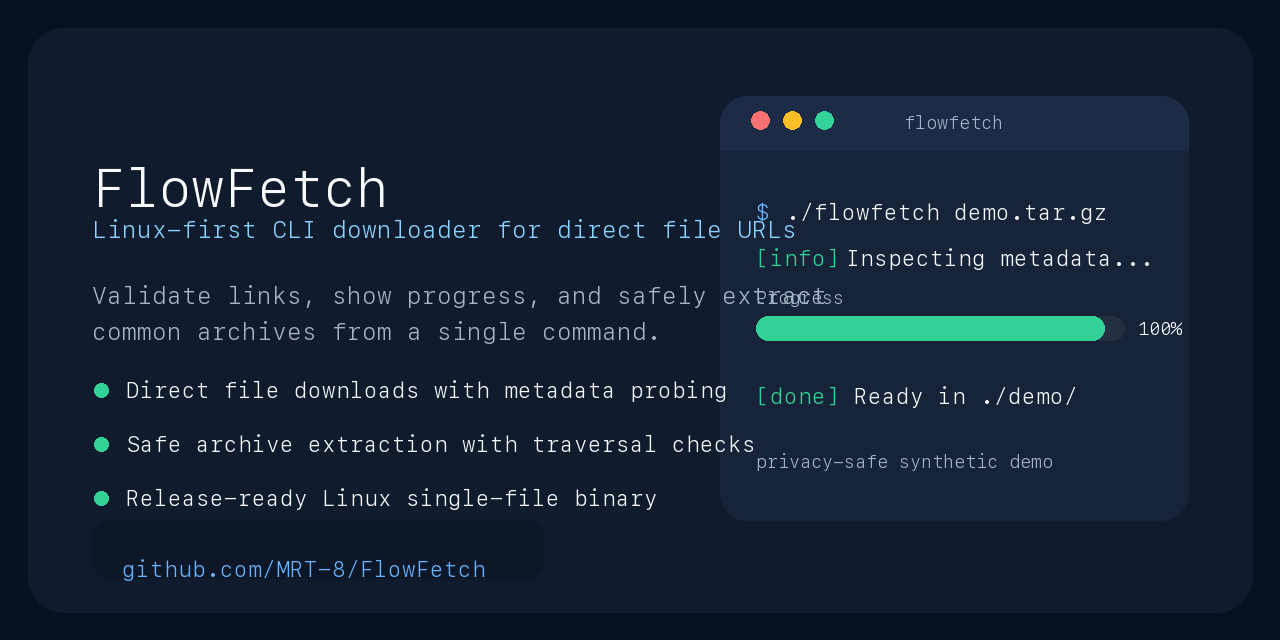
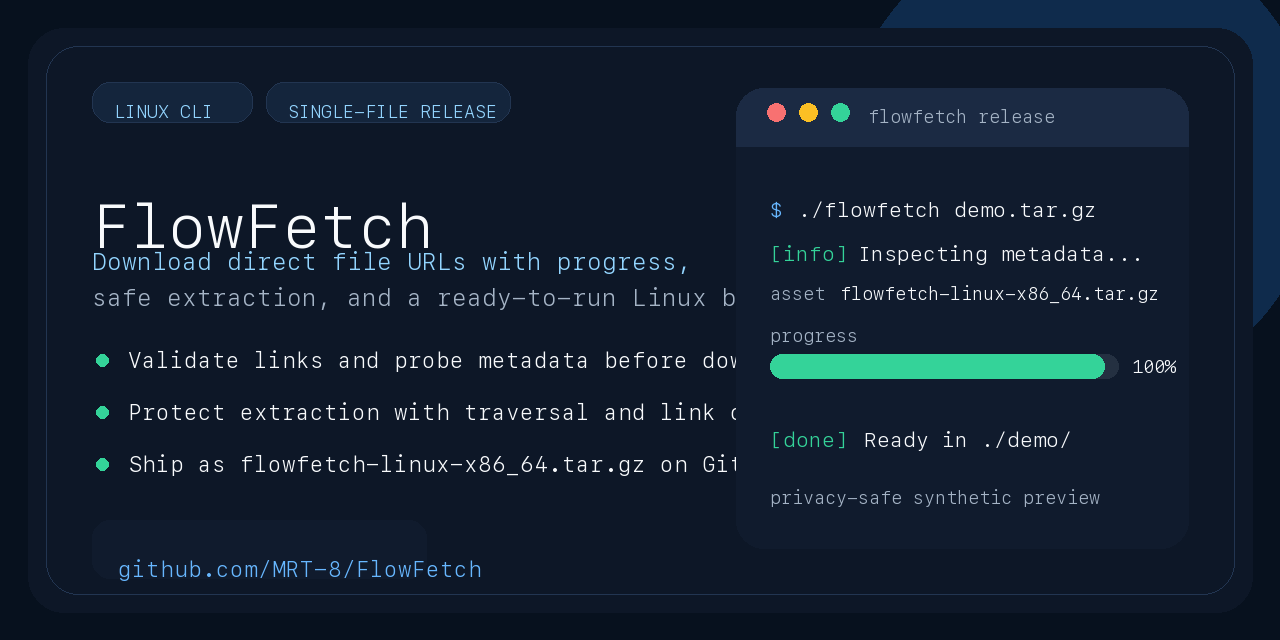
docs: refine social preview artwork

diff --git a/scripts/generate_social_preview.py b/scripts/generate_social_preview.py
@@ -15,14 +15,18 @@ WIDTH = 1280
 HEIGHT = 640
 OUT_PATH = Path("assets/social-preview.png")
 
-BG = "#08111F"
+BG = "#07111E"
+SURFACE = "#0D1727"
 PANEL = "#101B2D"
 PANEL_SOFT = "#162338"
+PANEL_LINE = "#223551"
 TEXT = "#F8FAFC"
 MUTED = "#A5B4C6"
-BLUE = "#66B3FF"
-GREEN = "#32D296"
-ACCENT = "#8AD4FF"
+BLUE = "#67B7FF"
+GREEN = "#34D399"
+ACCENT = "#93D5FF"
+PILL = "#14253C"
+GLOW = "#0F2B4C"
 
 
 def load_font(size: int) -> ImageFont.FreeTypeFont | ImageFont.ImageFont:
@@ -39,14 +43,28 @@ def load_font(size: int) -> ImageFont.FreeTypeFont | ImageFont.ImageFont:
     return ImageFont.load_default()
 
 
-FONT_TITLE = load_font(54)
+FONT_KICKER = load_font(20)
+FONT_TITLE = load_font(62)
 FONT_SUBTITLE = load_font(24)
 FONT_BODY = load_font(22)
 FONT_META = load_font(18)
+FONT_TERMINAL = load_font(21)
 
 
-def draw_text(draw: ImageDraw.ImageDraw, xy: tuple[int, int], text: str, fill: str, font, anchor: str | None = None) -> None:
+def draw_text(
+    draw: ImageDraw.ImageDraw,
+    xy: tuple[int, int],
+    text: str,
+    fill: str,
+    font,
+    anchor: str | None = None,
+) -> None:
     draw.text(xy, text, fill=fill, font=font, anchor=anchor)
+
+
+def pill(draw: ImageDraw.ImageDraw, xy: tuple[int, int, int, int], text: str) -> None:
+    draw.rounded_rectangle(xy, radius=18, fill=PILL, outline=PANEL_LINE, width=1)
+    draw_text(draw, (xy[0] + 22, xy[1] + 18), text, ACCENT, FONT_META)
 
 
 def main() -> None:
@@ -55,46 +73,51 @@ def main() -> None:
     image = Image.new("RGB", (WIDTH, HEIGHT), BG)
     draw = ImageDraw.Draw(image)
 
-    draw.rounded_rectangle((28, 28, WIDTH - 28, HEIGHT - 28), radius=36, fill=PANEL)
-    draw.rounded_rectangle((720, 96, 1188, 520), radius=28, fill=PANEL_SOFT)
-    draw.rounded_rectangle((720, 96, 1188, 150), radius=28, fill="#1D2C46")
-    draw.rectangle((720, 122, 1188, 150), fill="#1D2C46")
+    draw.ellipse((840, -80, 1320, 400), fill=GLOW)
+    draw.rounded_rectangle((28, 28, WIDTH - 28, HEIGHT - 28), radius=36, fill=SURFACE)
+    draw.rounded_rectangle((46, 46, WIDTH - 46, HEIGHT - 46), radius=32, outline=PANEL_LINE, width=1)
 
-    for x, color in ((760, "#F87171"), (792, "#FBBF24"), (824, "#34D399")):
-        draw.ellipse((x - 9, 111, x + 9, 129), fill=color)
+    pill(draw, (92, 82, 252, 122), "LINUX CLI")
+    pill(draw, (266, 82, 510, 122), "SINGLE-FILE RELEASE")
 
-    draw_text(draw, (954, 122), "flowfetch", MUTED, FONT_META, anchor="mm")
+    draw_text(draw, (92, 188), "FlowFetch", TEXT, FONT_TITLE)
+    draw_text(draw, (92, 246), "Download direct file URLs with progress,", ACCENT, FONT_SUBTITLE)
+    draw_text(draw, (92, 282), "safe extraction, and a ready-to-run Linux binary.", MUTED, FONT_SUBTITLE)
 
-    draw_text(draw, (92, 154), "FlowFetch", TEXT, FONT_TITLE)
-    draw_text(draw, (92, 214), "Linux-first CLI downloader for direct file URLs", ACCENT, FONT_SUBTITLE)
-    draw_text(draw, (92, 280), "Validate links, show progress, and safely extract", MUTED, FONT_SUBTITLE)
-    draw_text(draw, (92, 316), "common archives from a single command.", MUTED, FONT_SUBTITLE)
-
-    bullets = [
-        "Direct file downloads with metadata probing",
-        "Safe archive extraction with traversal checks",
-        "Release-ready Linux single-file binary",
+    highlights = [
+        "Validate links and probe metadata before download",
+        "Protect extraction with traversal and link checks",
+        "Ship as flowfetch-linux-x86_64.tar.gz on GitHub Releases",
     ]
-    y = 392
-    for bullet in bullets:
-        draw.ellipse((94, y - 9, 108, y + 5), fill=GREEN)
-        draw_text(draw, (126, y - 16), bullet, TEXT, FONT_BODY)
-        y += 54
+    y = 362
+    for line in highlights:
+        draw.ellipse((96, y - 8, 108, y + 4), fill=GREEN)
+        draw_text(draw, (128, y - 16), line, TEXT, FONT_BODY)
+        y += 52
 
-    draw.rounded_rectangle((92, 520, 544, 578), radius=18, fill="#0D1727")
-    draw_text(draw, (122, 555), "github.com/MRT-8/FlowFetch", BLUE, FONT_BODY)
+    draw.rounded_rectangle((92, 520, 426, 578), radius=18, fill=PANEL)
+    draw_text(draw, (118, 555), "github.com/MRT-8/FlowFetch", BLUE, FONT_BODY)
 
-    draw_text(draw, (756, 198), "$", BLUE, FONT_BODY)
-    draw_text(draw, (786, 198), "./flowfetch demo.tar.gz", TEXT, FONT_BODY)
-    draw_text(draw, (756, 244), "[info]", GREEN, FONT_BODY)
-    draw_text(draw, (846, 244), "Inspecting metadata...", TEXT, FONT_BODY)
-    draw_text(draw, (756, 286), "Progress", MUTED, FONT_META)
-    draw.rounded_rectangle((756, 316, 1124, 340), radius=12, fill="#243041")
-    draw.rounded_rectangle((756, 316, 1104, 340), radius=12, fill=GREEN)
-    draw_text(draw, (1138, 328), "100%", TEXT, FONT_META, anchor="lm")
-    draw_text(draw, (756, 382), "[done]", GREEN, FONT_BODY)
-    draw_text(draw, (854, 382), "Ready in ./demo/", TEXT, FONT_BODY)
-    draw_text(draw, (756, 450), "privacy-safe synthetic demo", MUTED, FONT_META)
+    draw.rounded_rectangle((736, 88, 1188, 548), radius=28, fill=PANEL)
+    draw.rounded_rectangle((736, 88, 1188, 146), radius=28, fill="#1B2A43")
+    draw.rectangle((736, 116, 1188, 146), fill="#1B2A43")
+    for x, color in ((776, "#F87171"), (808, "#FBBF24"), (840, "#34D399")):
+        draw.ellipse((x - 9, 103, x + 9, 121), fill=color)
+    draw_text(draw, (962, 116), "flowfetch release", MUTED, FONT_META, anchor="mm")
+
+    draw_text(draw, (770, 196), "$", BLUE, FONT_TERMINAL)
+    draw_text(draw, (798, 196), "./flowfetch demo.tar.gz", TEXT, FONT_TERMINAL)
+    draw_text(draw, (770, 240), "[info]", GREEN, FONT_TERMINAL)
+    draw_text(draw, (858, 240), "Inspecting metadata...", TEXT, FONT_TERMINAL)
+    draw_text(draw, (770, 282), "asset", MUTED, FONT_META)
+    draw_text(draw, (840, 282), "flowfetch-linux-x86_64.tar.gz", TEXT, FONT_META)
+    draw_text(draw, (770, 324), "progress", MUTED, FONT_META)
+    draw.rounded_rectangle((770, 354, 1118, 378), radius=12, fill="#243041")
+    draw.rounded_rectangle((770, 354, 1104, 378), radius=12, fill=GREEN)
+    draw_text(draw, (1132, 366), "100%", TEXT, FONT_META, anchor="lm")
+    draw_text(draw, (770, 426), "[done]", GREEN, FONT_TERMINAL)
+    draw_text(draw, (864, 426), "Ready in ./demo/", TEXT, FONT_TERMINAL)
+    draw_text(draw, (770, 486), "privacy-safe synthetic preview", MUTED, FONT_META)
 
     image.save(OUT_PATH, optimize=True)
     print(f"Wrote {OUT_PATH}")
